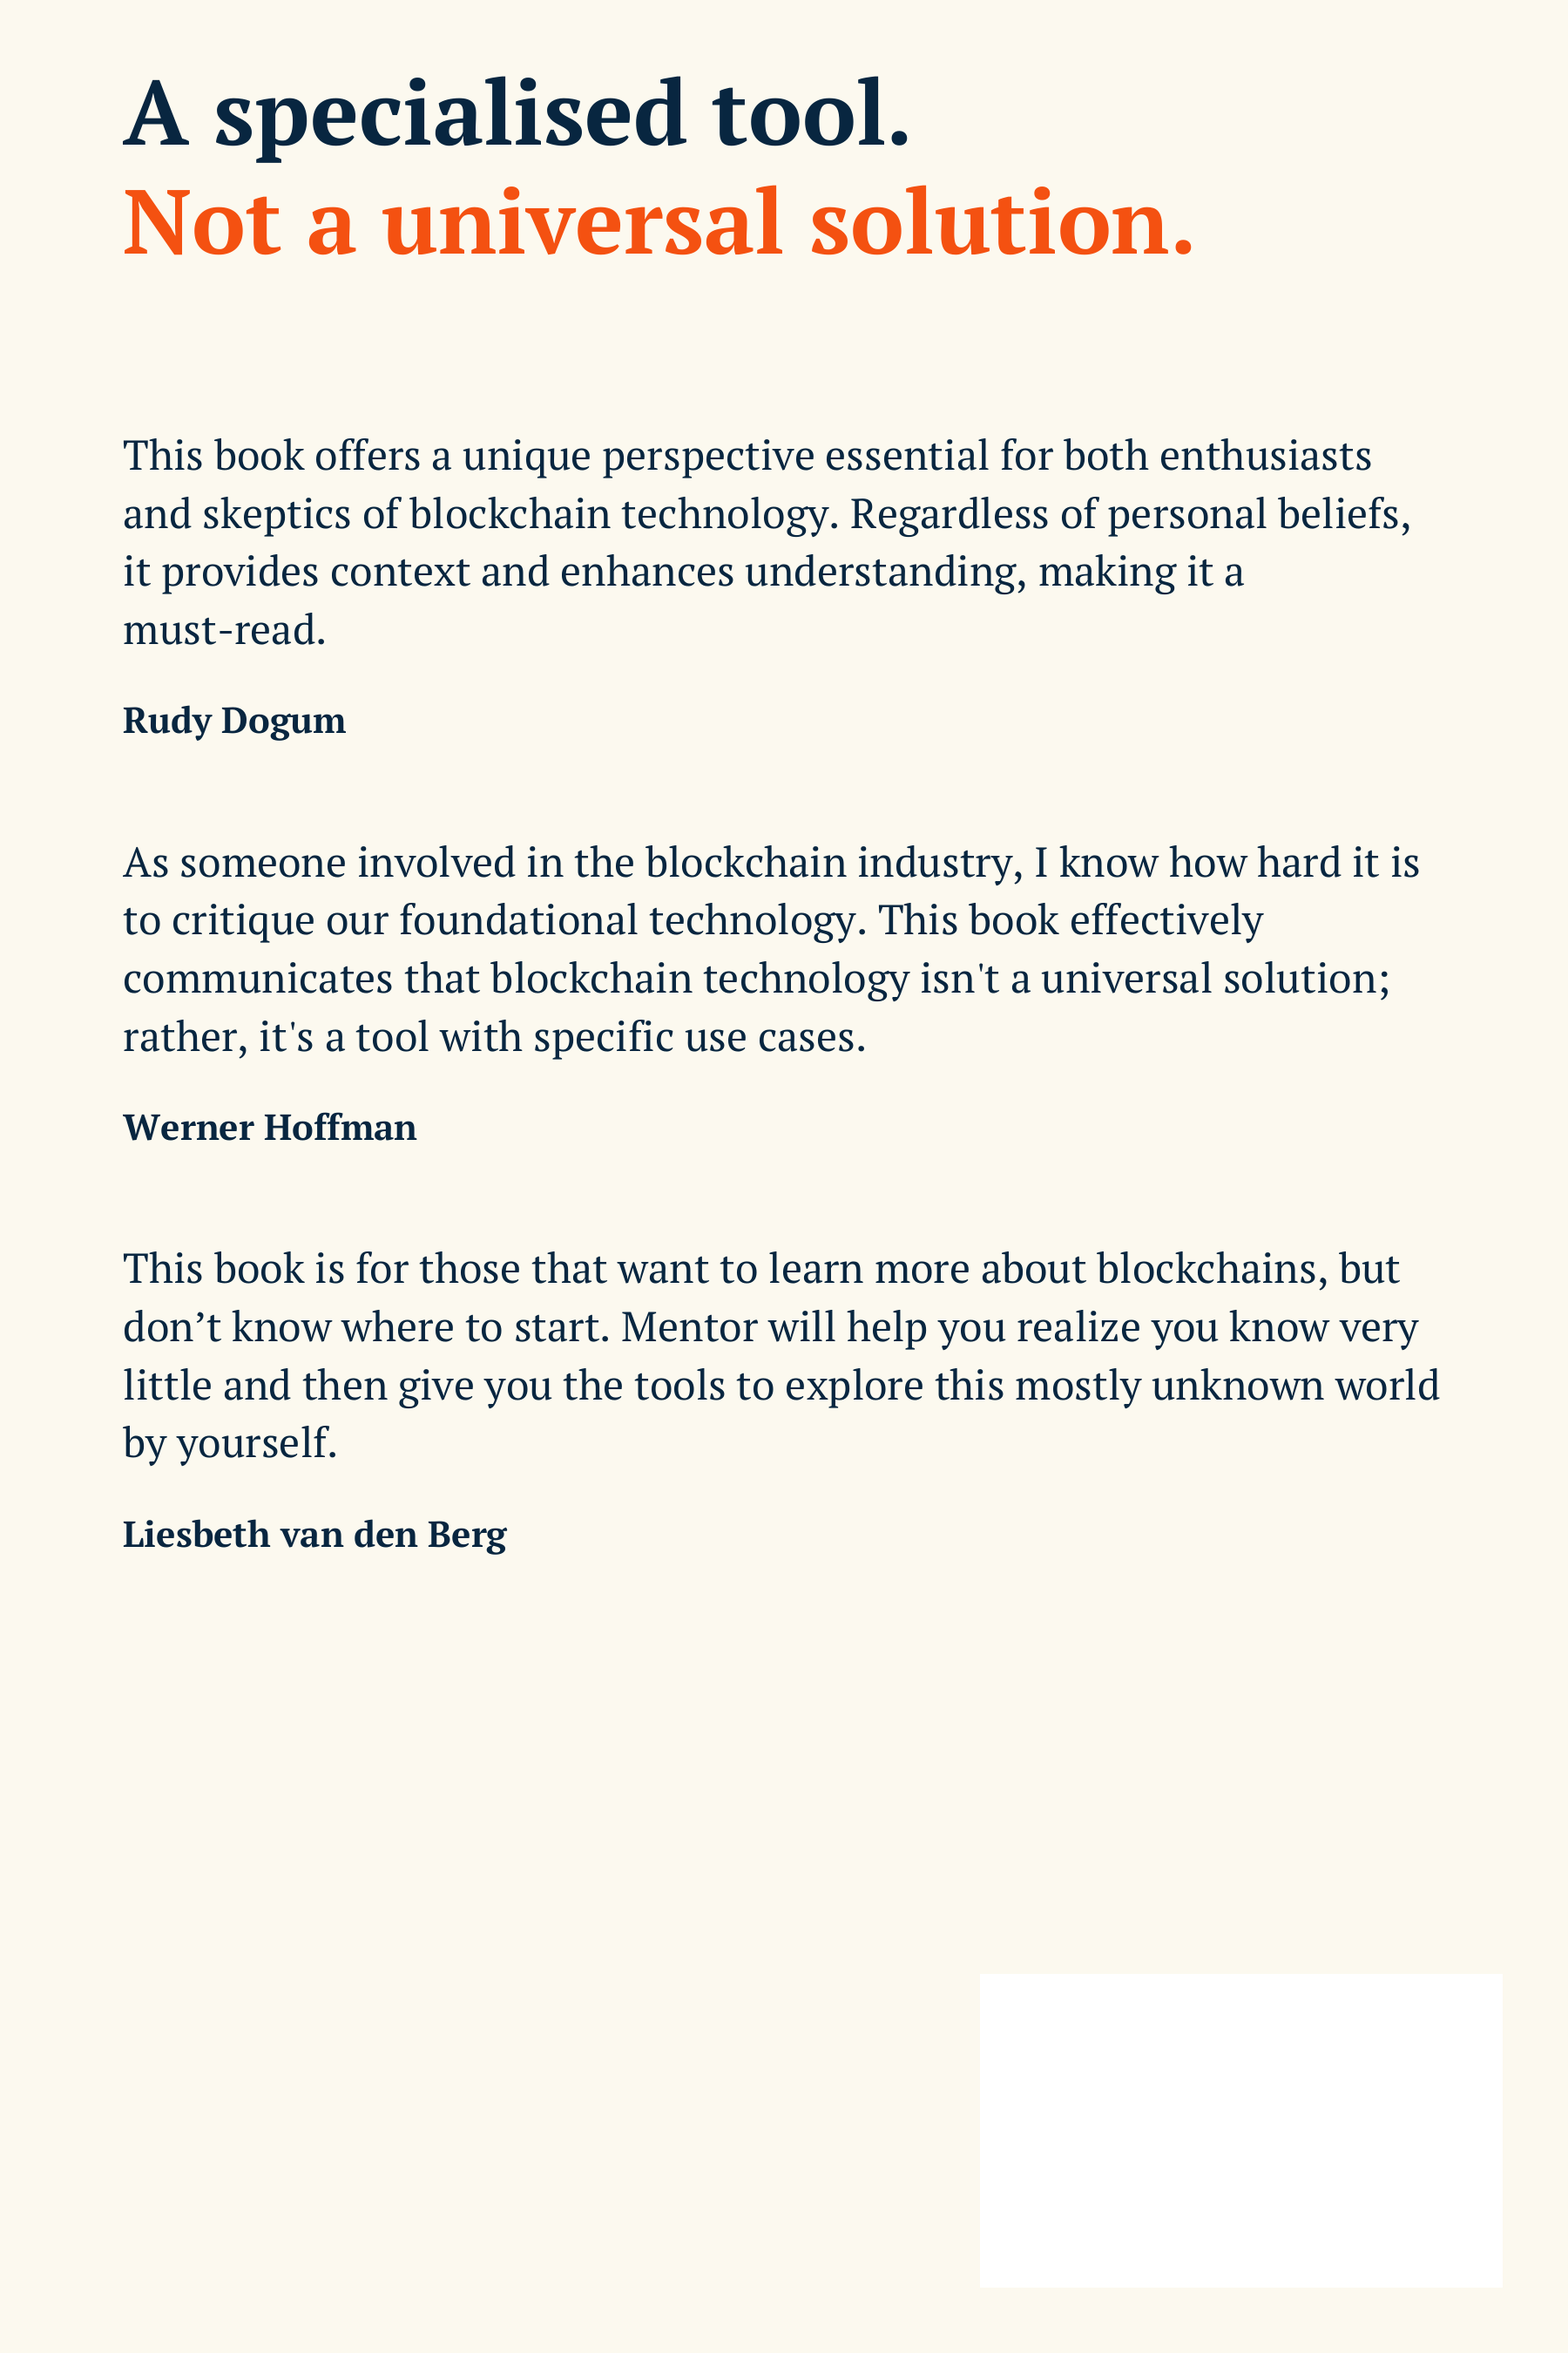
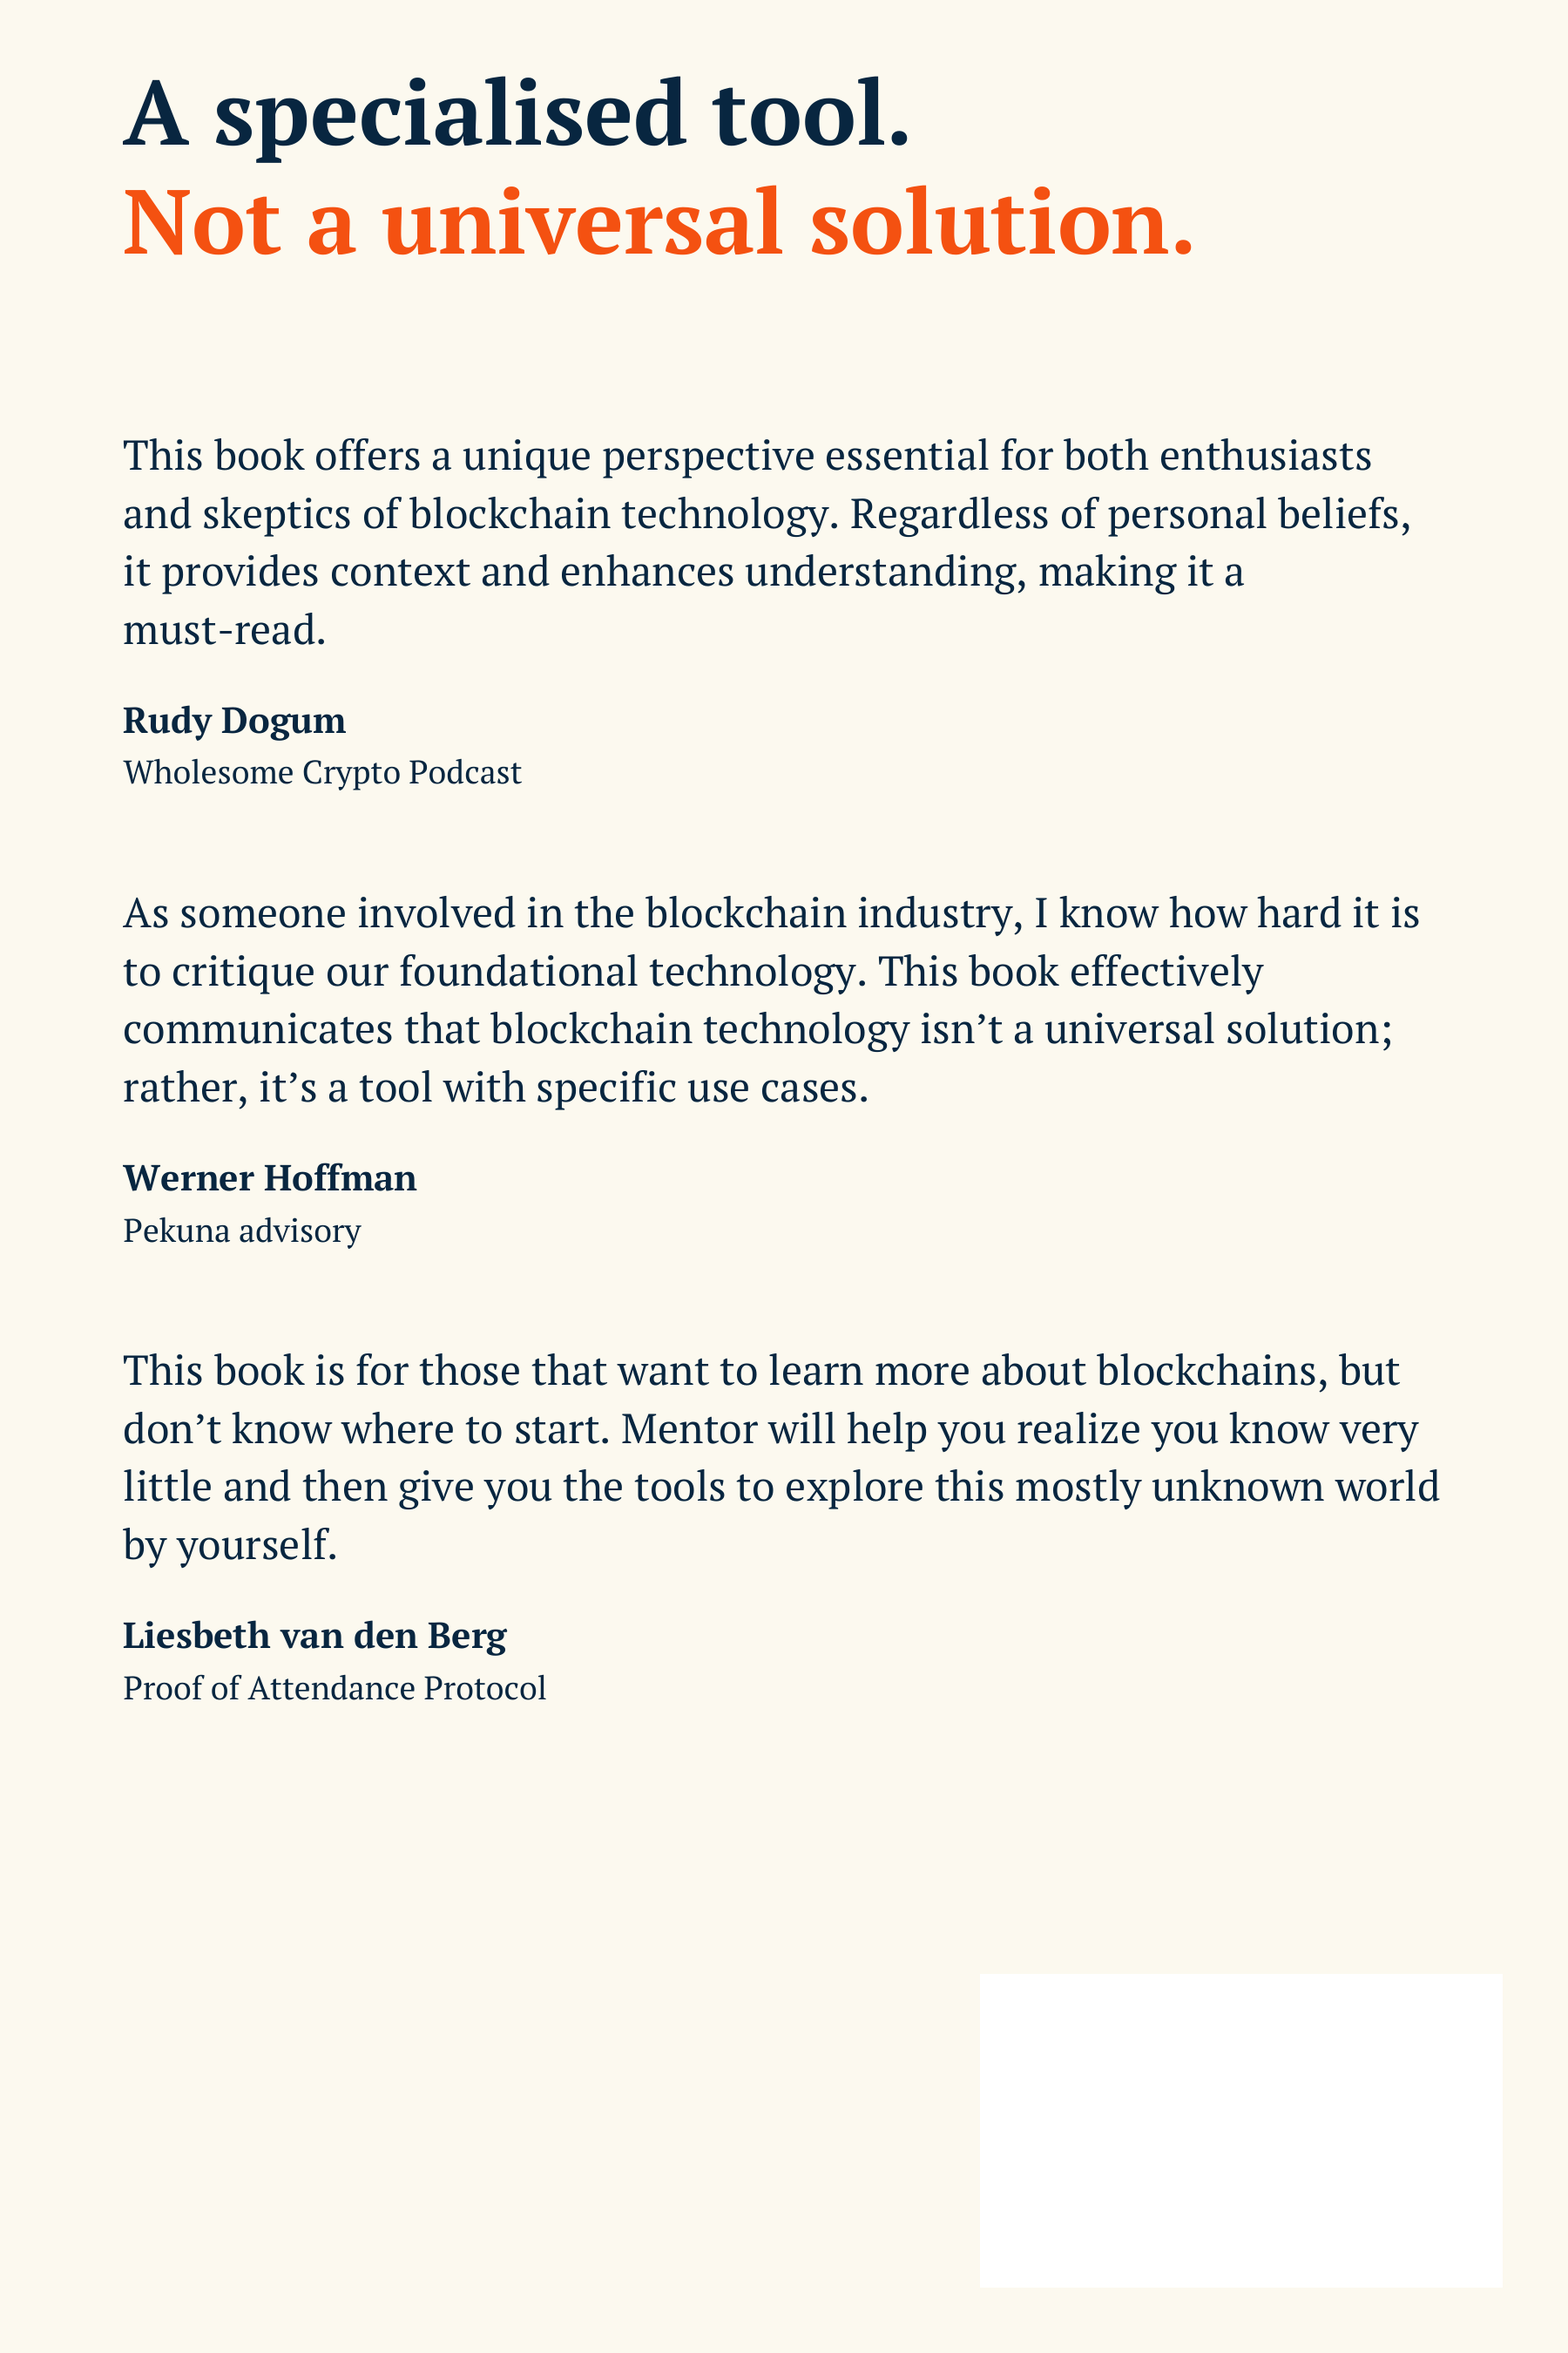
🐛 Extend cover bleed and refine production preflight

Changed region(s): [[0.0622, 0.3111, 0.9022, 0.7467]]

diff --git a/compiler/modules/pdf.js b/compiler/modules/pdf.js
@@ -122,15 +122,13 @@ const copyAssets = async ( html, meta, output ) => {
 
 }
 
-// KDP cream paper is 0.0025 inch per page, spine text is only allowed from 79 pages
-// see https://kdp.amazon.com/en_US/help/topic/G201953020
+// Cover generation reports the spine after applying KDP page-count rounding.
 const reportPrintSpecs = async pdf => {
 
 	const { stdout } = await exec( 'gs', [ '-q', '-dNODISPLAY', '-dSAFER', `--permit-file-read=${ pdf }`, '-c', `(${ pdf }) (r) file runpdfbegin pdfpagecount = quit` ] )
 	const pages = Number( stdout.trim() )
-	const spine = ( pages * 0.0025 ).toFixed( 4 )
 
-	console.log( `Print pdf: ${ pages } pages, cream spine width ${ spine } inch${ pages < 79 ? ', too thin for spine text' : '' }` )
+	console.log( `Print pdf: ${ pages } pages` )
 	if( pages % 2 ) console.warn( 'Print pdf has an odd page count, KDP will add a blank last page' )
 
 }

diff --git a/compiler/covers.py b/compiler/covers.py
@@ -31,7 +31,7 @@ NAVY, ORANGE, CREAM = "#082640", "#F45111", "#FCF9EF"
 
 
 def command(*args):
-    subprocess.run([str(arg) for arg in args], check=True, capture_output=True)
+    subprocess.run([str(arg) for arg in args], check=True)
 
 
 def pdf_file(suffix):
@@ -65,7 +65,9 @@ def draw_back(page, x, y, copy):
         page.setFillColor(HexColor(NAVY))
         page.setFont("BookBold", 10)
         page.drawString(left, cursor, endorsement["author"])
-        cursor -= 28
+        page.setFont("Book", 9)
+        page.drawString(left, cursor - 14, endorsement["affiliation"])
+        cursor -= 42
     if cursor < 130:
         raise ValueError("Back copy enters the reserved barcode area")
     # KDP supplies the barcode. No fake ISBN or template labels in the upload.
@@ -119,8 +121,17 @@ def build(update_assets=False):
     rgb_wrap = pdf_file("kdp-cover-rgb")
     page = new_pdf(rgb_wrap, full_w, full_h)
     draw_back(page, BLEED, BLEED, copy)
-    page.drawImage(str(front), BLEED + TRIM_W + spine, BLEED,
-                   width=TRIM_W, height=TRIM_H)
+    # Fill the outer bleed with actual artwork, cropped symmetrically at trim.
+    front_x = BLEED + TRIM_W + spine
+    art_width = max(TRIM_W + 2 * BLEED, full_h * image_w / image_h)
+    art_height = art_width * image_h / image_w
+    page.saveState()
+    clip = page.beginPath()
+    clip.rect(front_x, 0, TRIM_W + BLEED, full_h)
+    page.clipPath(clip, stroke=0)
+    page.drawImage(str(front), front_x + (TRIM_W - art_width) / 2, (full_h - art_height) / 2,
+                   width=art_width, height=art_height)
+    page.restoreState()
     # The narrow spine stays blank, including if future edits reach 80 pages.
     page.showPage()
     page.save()
@@ -138,17 +149,20 @@ def build(update_assets=False):
     wrap_png = raster(wrap, "kdp-cover")
     wrap_jpg = raster(wrap, "kdp-cover", jpeg=True)
     native_ppi = min(image_w / 6, image_h / 9)
+    wrap_ppi = image_w / (art_width / INCH)
     report = {
         "selected_front": "C12-F", "interior_pages": pages, "kdp_pages": kdp_pages,
         "paper": "cream", "ink": "black", "interior_bleed": False,
         "trim_inches": [6, 9], "bleed_inches": 0.125,
-        "spine_inches": spine / INCH, "wrap_inches": [full_w / INCH, full_h / INCH],
+        "spine_inches": round(spine / INCH, 4),
+        "wrap_inches": [round(full_w / INCH, 4), round(full_h / INCH, 4)],
         "front_source_pixels": [image_w, image_h], "front_native_ppi": round(native_ppi, 2),
+        "wrap_front_native_ppi": round(wrap_ppi, 2),
         "raster_export_ppi": 300, "spine_text": False,
         "barcode": "Reserved 2 x 1.2 inches; KDP supplies barcode",
         "interior_sha256": hashlib.sha256(print_pdf.read_bytes()).hexdigest(),
         "front_sha256": hashlib.sha256(front.read_bytes()).hexdigest(),
-        "warnings": (["Selected C12-F source is below 300 PPI at 6x9. Raster exports are 300 DPI, but do not add source detail. Obtain a higher-resolution master before submission and inspect a physical proof."] if native_ppi < 300 else []),
+        "warnings": (["Selected C12-F source is below 300 PPI in the full wrap. Raster exports are 300 DPI, but do not add source detail. Obtain a higher-resolution master before submission and inspect a physical proof."] if wrap_ppi < 300 else []),
         "specification": "https://kdp.amazon.com/en_US/help/topic/G201953020"
     }
     (BUILD / "cover-preflight.json").write_text(json.dumps(report, indent=2) + "\n")

diff --git a/assets/production/README.md b/assets/production/README.md
@@ -34,6 +34,8 @@ The bundled PT Serif fonts provide editable, embedded back-cover lettering.
 Always upload the interior and wrap from the **same build**. The checked-in
 snapshots currently use 60 pages: 0.15-inch spine, 12.4×9.25-inch full wrap.
 The build derives the spine from the final PDF, rounding an odd count up to even.
+The wrap front scales uniformly to fill the bleed, with a small symmetric crop
+at trim (163.8 native PPI including bleed). Separate front exports remain uncropped.
 No spine text; the white 2×1.2-inch area is reserved for KDP's barcode.
 
 ## Remaining print-quality issue
@@ -46,7 +48,7 @@ master before final submission. A physical proof is also advisable.
 
 The built-in image tool's attempted resolution remake also returned 1024×1536;
 it was discarded to preserve the exact approved image. A larger source should
-be at least 1800×2700 (same 2:3 ratio). Replace `assets/cover.png`, then rebuild.
+be at least 2000×3000 to retain 300 PPI including bleed (same 2:3 ratio). Replace `assets/cover.png`, then rebuild.
 The interiors have sufficient source resolution at their placed size.
 
 The old `.afdesign` files, 63-page template and `assets/social/` are legacy

diff --git a/CHANGELOG.md b/CHANGELOG.md
@@ -5,6 +5,7 @@ Book editions are git tags (`v*`, see releases). This log tracks the compiler an
 ## [2.1.0] - 2026-11-01
 
 ### Added
+- Extend cover artwork into bleed; preserve endorsement affiliations.
 - Generate front/back and page-count-specific KDP covers with every full build.
 - Include cover exports and resolution preflight in CI artifacts and releases.
 - Preserve selected-art IDs and hashes for all eight interior illustrations.
